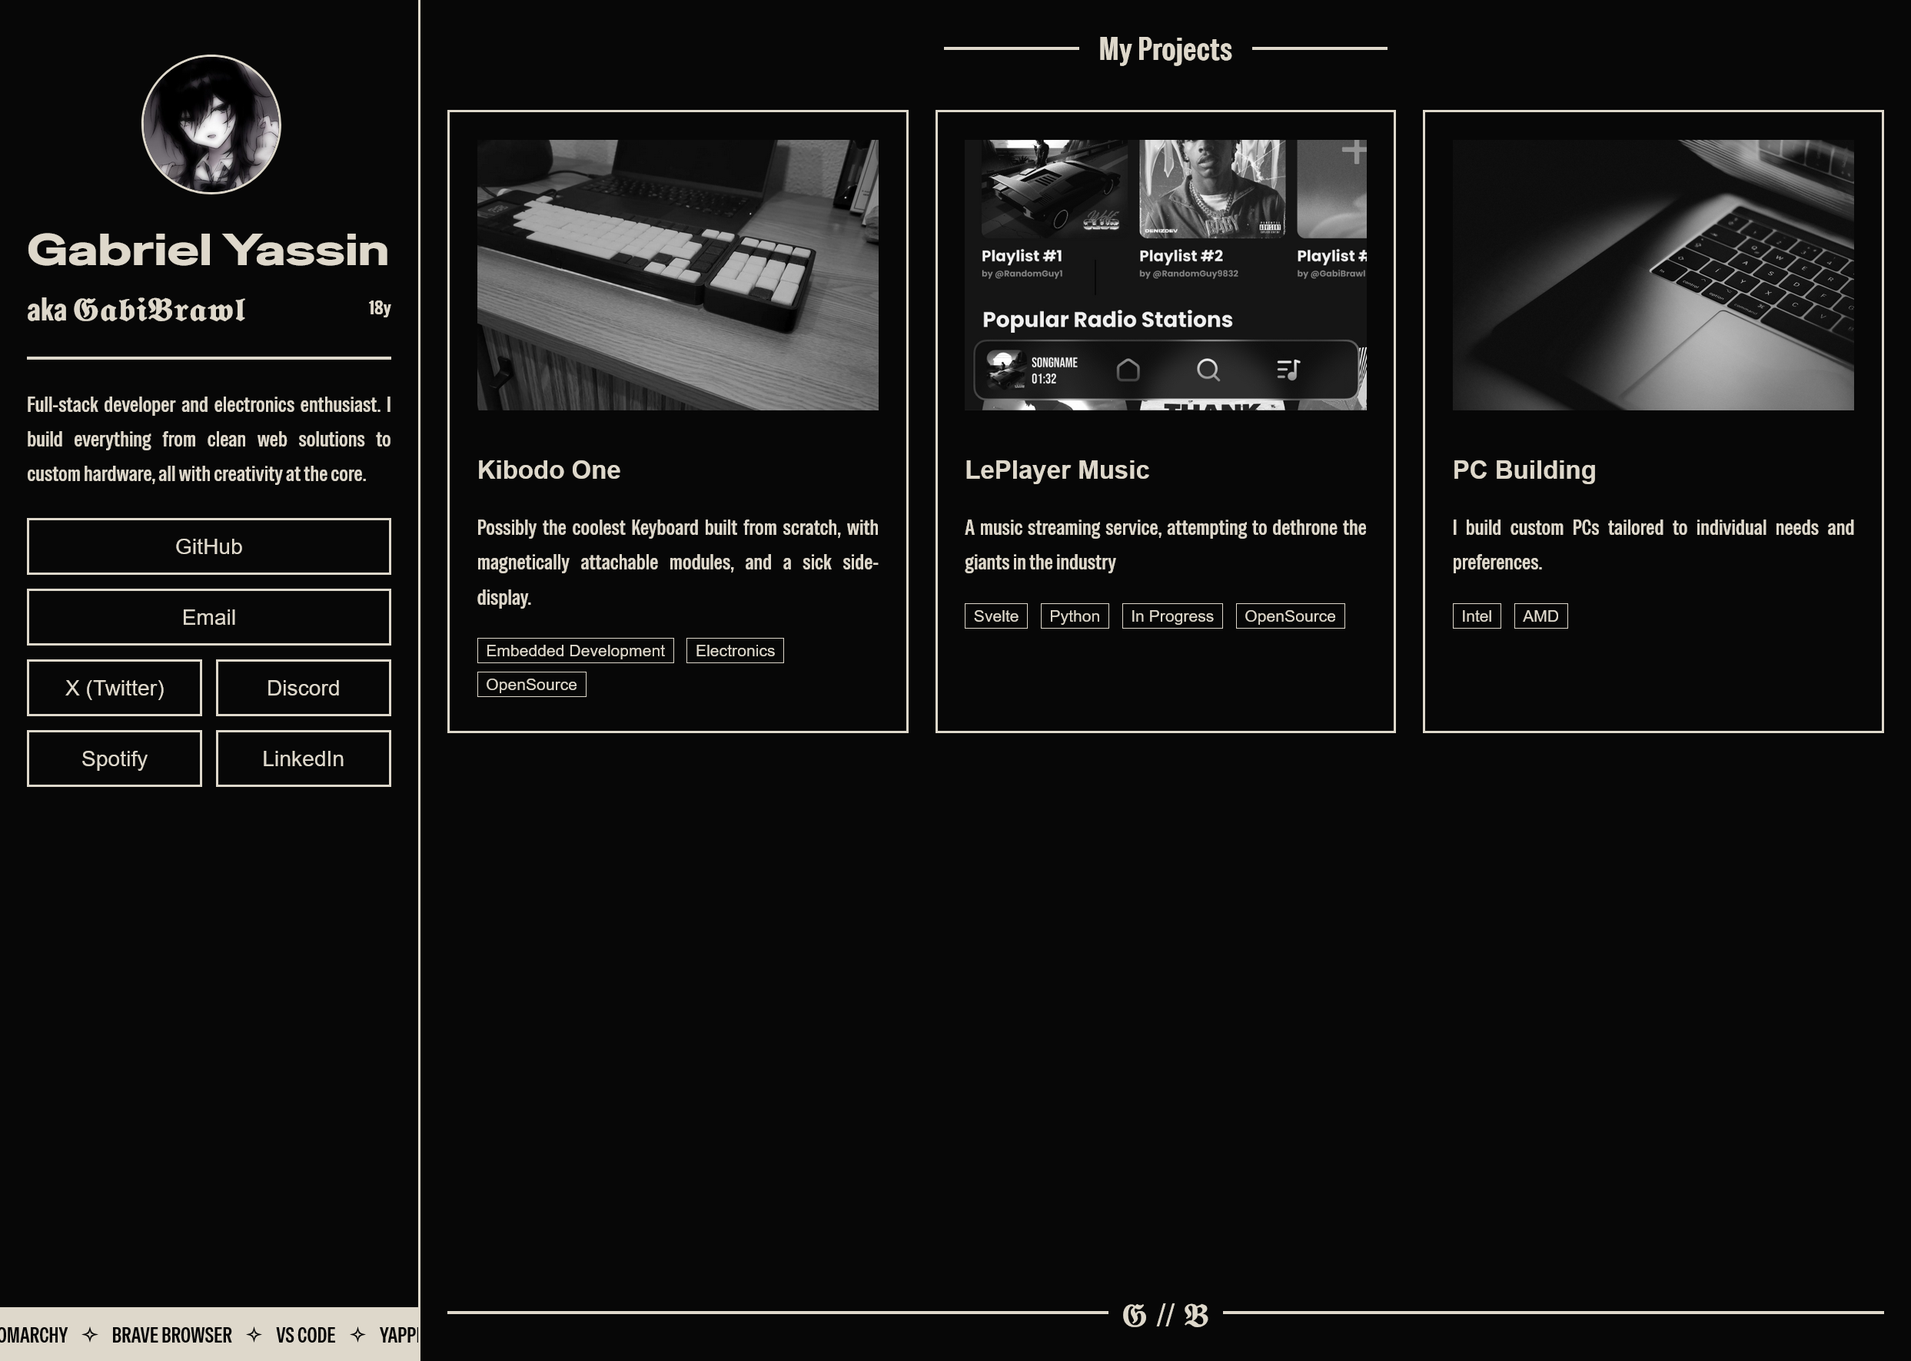
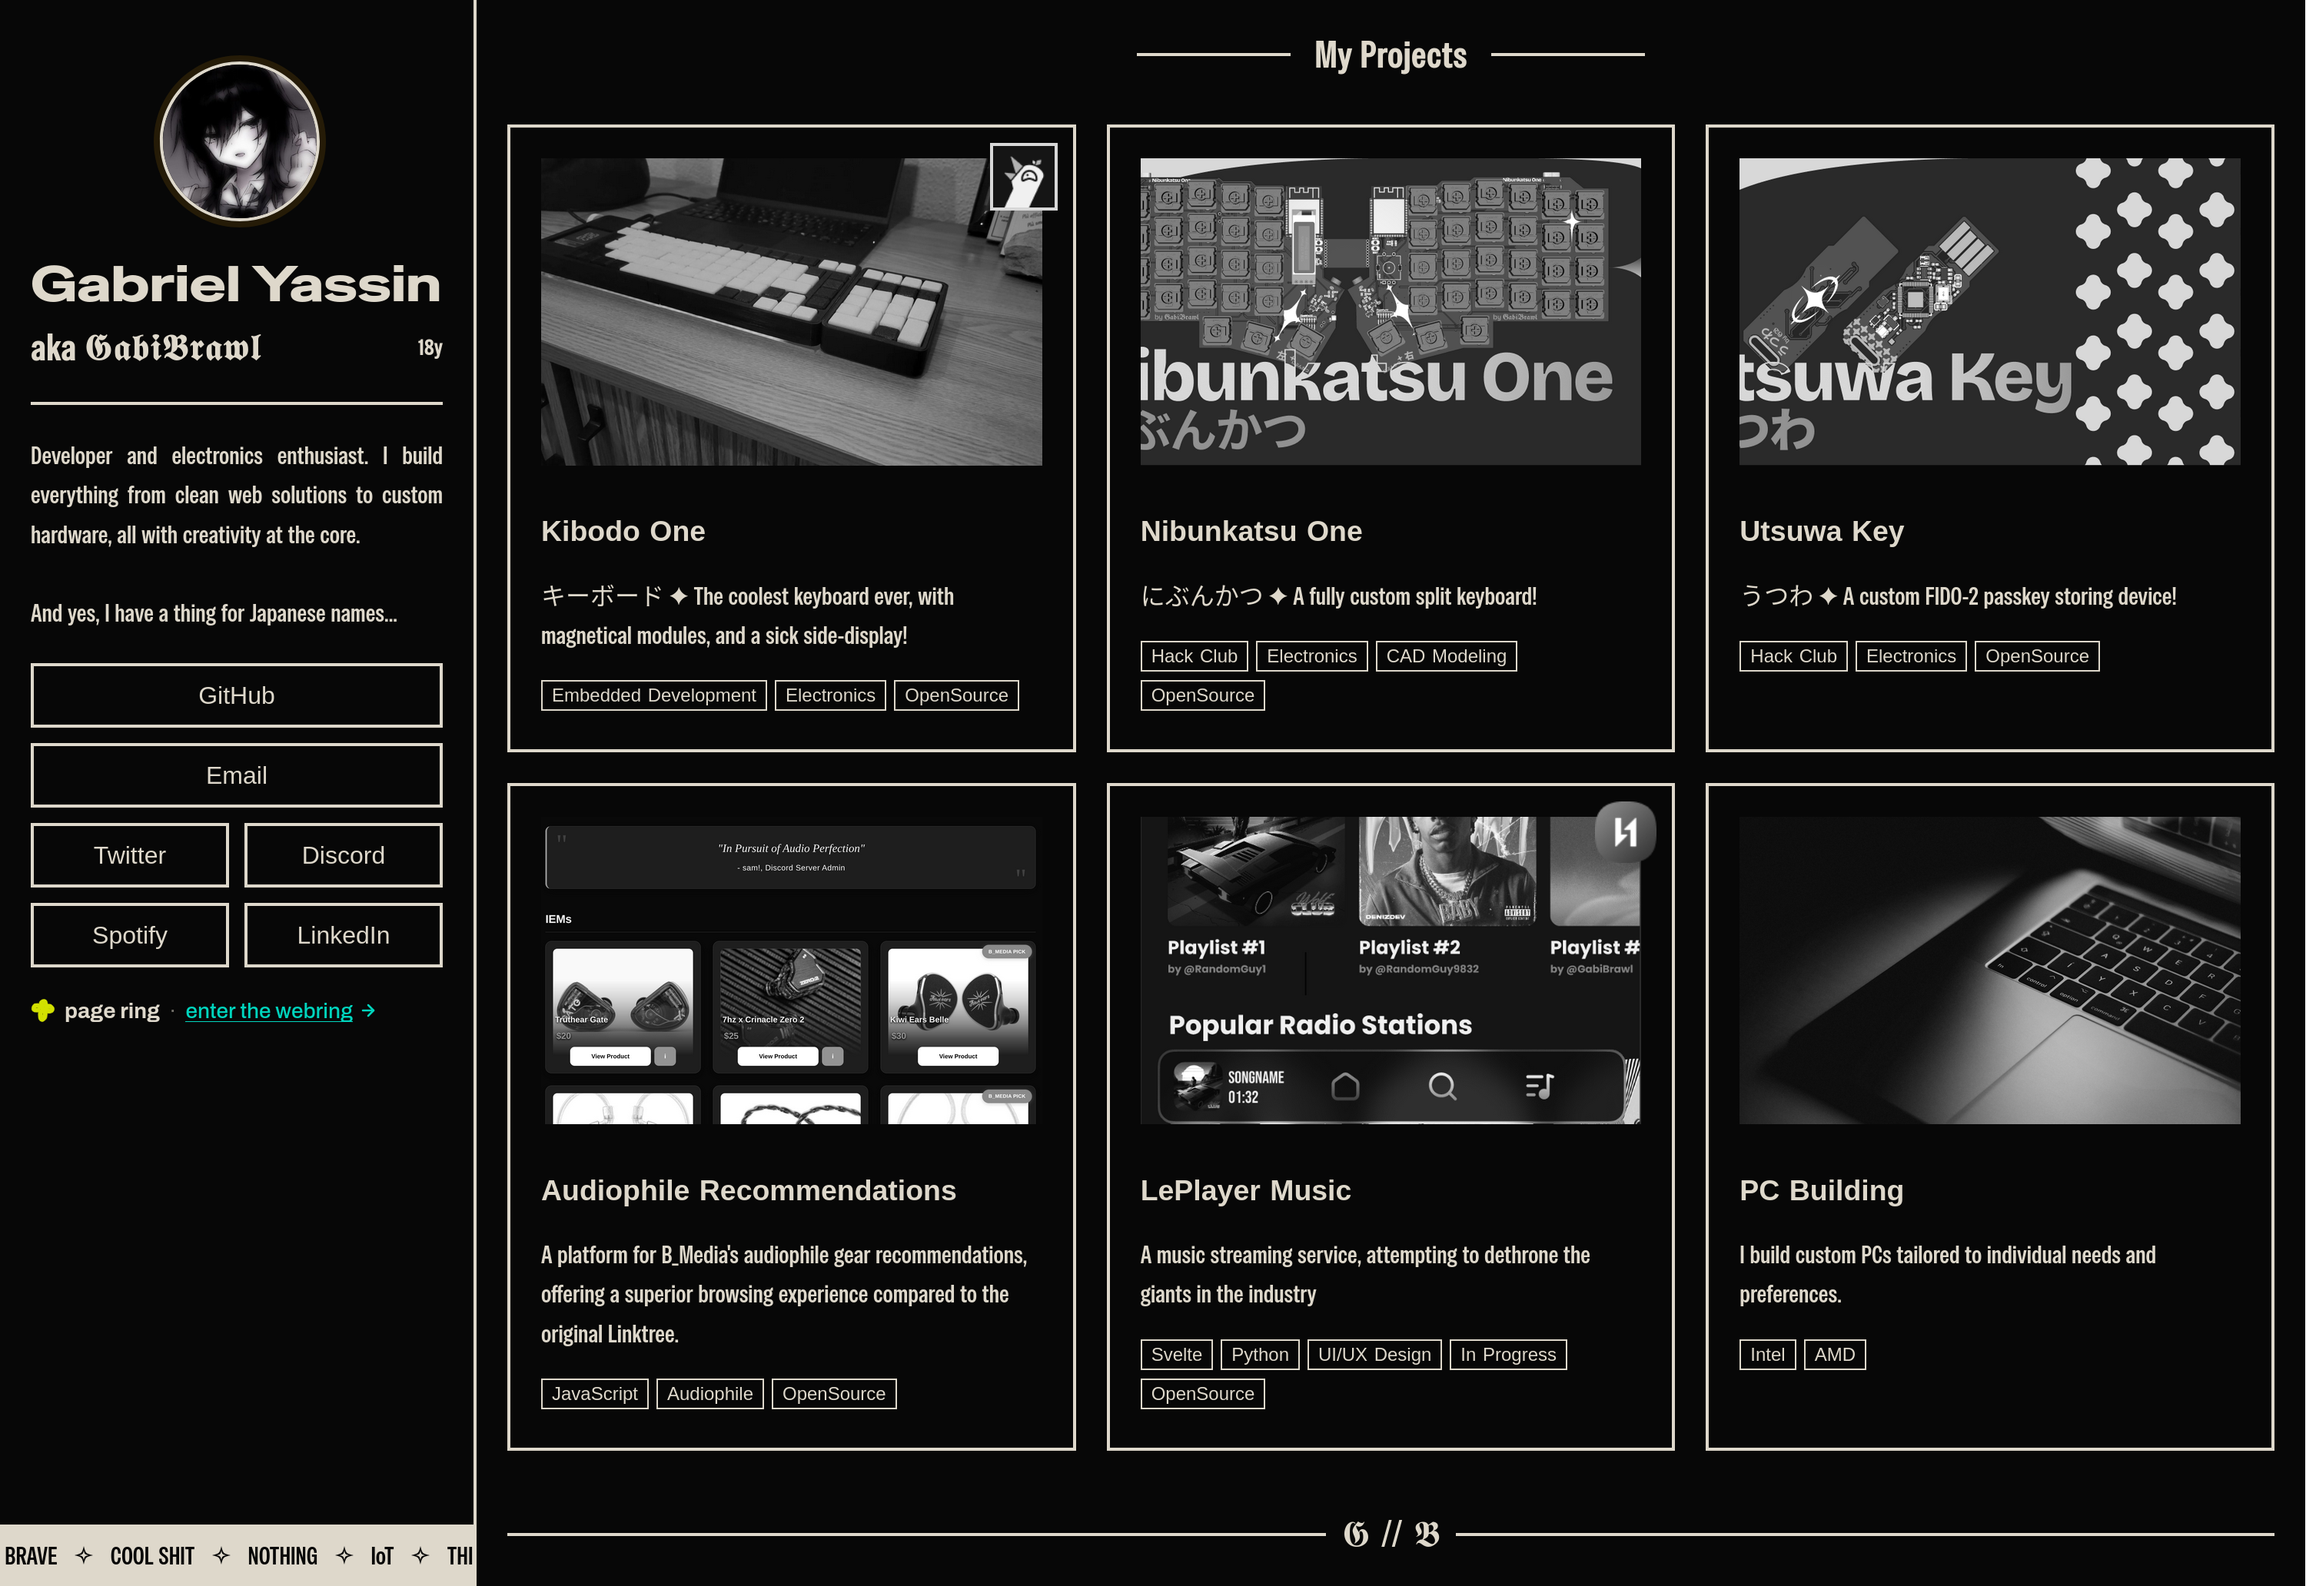
Organized repository assets. Better implementation of the Hack Club Webring with the page aesthetic!

diff --git a/assets/js/interactions.js b/assets/js/interactions.js
@@ -115,21 +115,21 @@ function wireShowMoreSocials() {
     child.classList.contains('large') && 
     !child.classList.contains('show-more-btn')
   );
-  const extraSocialLinks = socialsContainer.querySelectorAll('.extra-socials a');
+  const extraSocials = socialsContainer.querySelector('.extra-socials');
   
   let isExpanded = false;
   
   function updateVisibility() {
     if (window.innerWidth <= CONFIG.MOBILE_BREAKPOINT) {
-      // On mobile, show main links always, toggle extra links
+      // On mobile, show main links always, toggle extra socials
       mainSocialLinks.forEach(link => link.style.display = 'block');
-      extraSocialLinks.forEach(link => link.style.display = isExpanded ? 'block' : 'none');
+      extraSocials.style.display = isExpanded ? 'block' : 'none';
       showMoreBtn.textContent = isExpanded ? 'Show Less' : 'Show More';
       showMoreBtn.style.display = 'block';
     } else {
-      // On desktop, show all links and hide button
+      // On desktop, show all and hide button
       mainSocialLinks.forEach(link => link.style.display = 'block');
-      extraSocialLinks.forEach(link => link.style.display = 'block');
+      extraSocials.style.display = 'block';
       showMoreBtn.style.display = 'none';
       isExpanded = true; // Consider it expanded on desktop
     }
@@ -162,5 +162,29 @@ function wireCursorGrab() {
 
   document.addEventListener('mouseup', () => {
     body.classList.remove('grabbing');
+  });
+}
+
+/**
+ * Wires up webring toggle button
+ */
+function wireWebringToggle() {
+  const toggleBtn = document.querySelector('.webring-toggle');
+  const content = document.querySelector('.webring-content');
+  
+  if (!toggleBtn || !content) return;
+  
+  let isExpanded = false;
+  
+  toggleBtn.addEventListener('click', (e) => {
+    e.preventDefault();
+    isExpanded = !isExpanded;
+    if (isExpanded) {
+      content.style.display = 'block';
+      toggleBtn.textContent = 'Hide Webring';
+    } else {
+      content.style.display = 'none';
+      toggleBtn.textContent = 'Part of the Hack Club Webring';
+    }
   });
 }

diff --git a/index.html b/index.html
@@ -37,7 +37,7 @@
     <!-- Preconnect to font provider for faster font load -->
     <link rel="preconnect" href="https://fonts.googleapis.com">
     <link rel="preconnect" href="https://fonts.gstatic.com" crossorigin>
-    <!-- Load Google Fonts (moved out of CSS for better performance) -->
+    <!-- Load Google Fonts -->
     <link href="https://fonts.googleapis.com/css2?family=Special+Gothic+Condensed+One&family=Special+Gothic+Expanded+One&display=swap" rel="stylesheet">
     <!-- Preload main stylesheets to reduce render-blocking -->
     <link rel="preload" href="assets/css/base.css" as="style" onload="this.rel='stylesheet'">
@@ -81,10 +81,16 @@
                     <a href="https://open.spotify.com/playlist/29FRF3n8TgRjY5Y2lGGFwV" target="_blank">Spotify</a>
                     <a href="https://linkedin.com/in/gabrielyassin" target="_blank">LinkedIn</a>
                 </div>
+                <div class="webring-section">
+                    <button class="webring-toggle">Part of the Hack Club Webring</button>
+                    <div class="webring-content">
+                        <pagering-link theme="dark"></pagering-link>
+                    </div>
+                </div>
             </div>
             <a class="large show-more-btn" id="show-more-socials">Show More</a>
         </div>
-        <pagering-link theme="dark" style="margin-top: 8px;"></pagering-link>
+        
         
         <!-- Infinite scrolling tech text -->
         <div class="tech-scroller">

diff --git a/assets/css/components.css b/assets/css/components.css
@@ -87,6 +87,34 @@
   flex: 1;
 }
 
+.webring-section {
+  margin-top: 0px;
+}
+
+.webring-toggle {
+  display: block;
+  color: var(--white);
+  text-decoration: none;
+  margin-bottom: 10px;
+  padding: 10px;
+  border: 2px solid var(--white);
+  text-align: center;
+  background: none;
+  cursor: pointer;
+  width: 100%;
+  font-family: inherit;
+  font-size: inherit;
+}
+
+.webring-toggle:hover {
+  background: var(--white);
+  color: var(--black);
+}
+
+.webring-content {
+  display: none;
+}
+
 /* Mobile socials adjustments */
 @media (max-width: 768px) {
   .socials .show-more-btn {

diff --git a/assets/js/main.js b/assets/js/main.js
@@ -13,6 +13,7 @@
     wireCommandPalette();
     wireCursorGrab();
     wireShowMoreSocials();
+    wireWebringToggle();
   });
 
   // Remove preload class on window load
